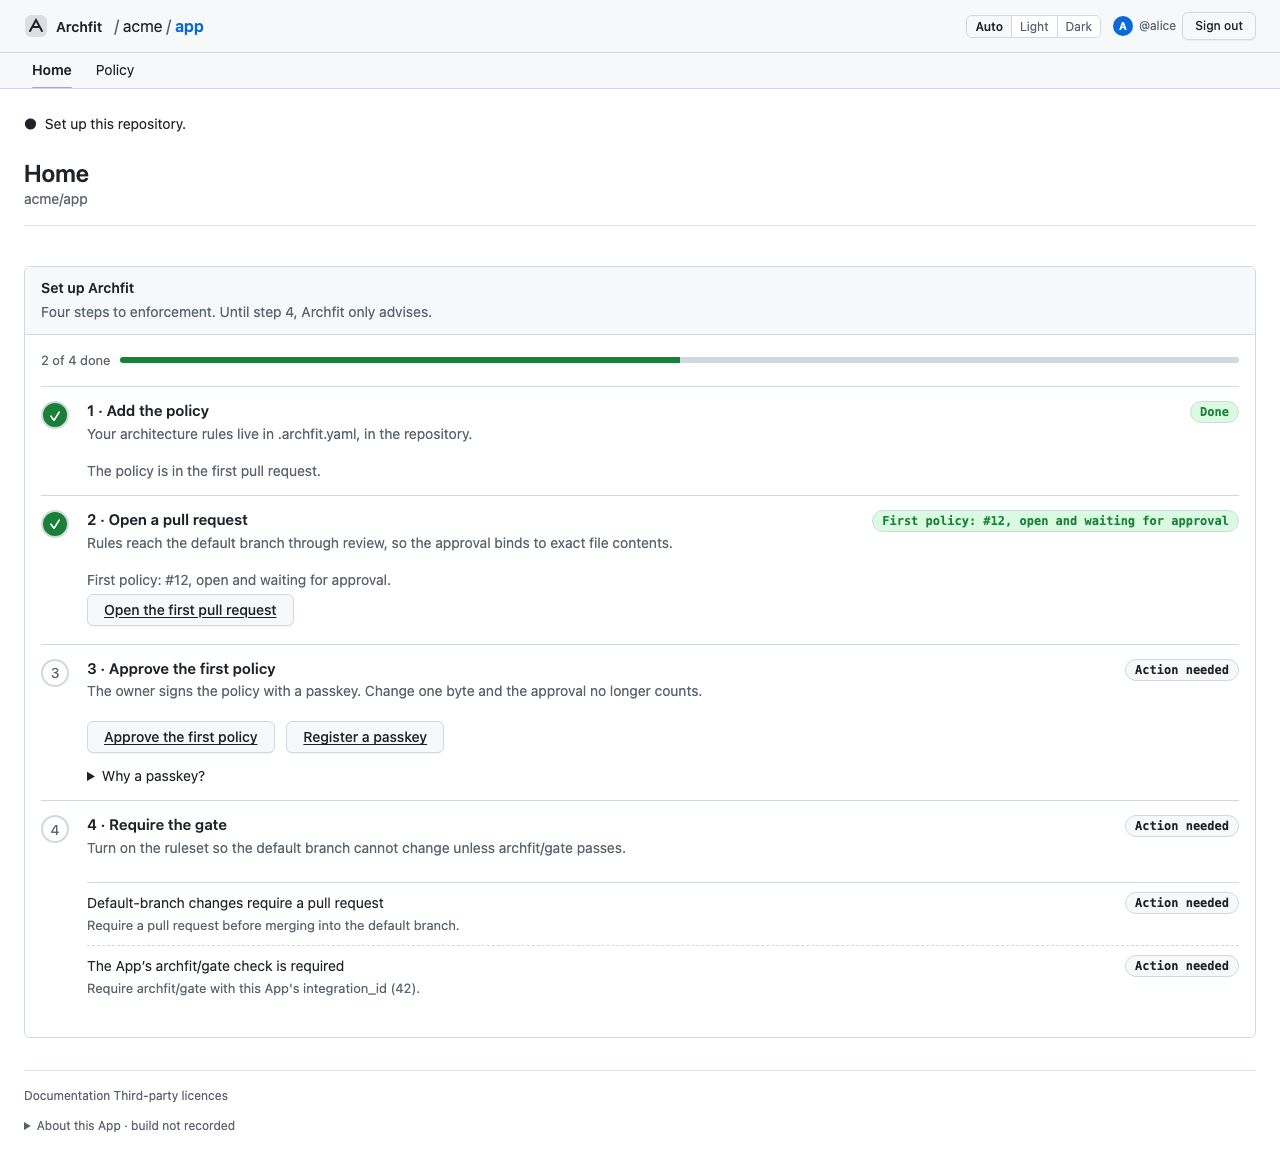
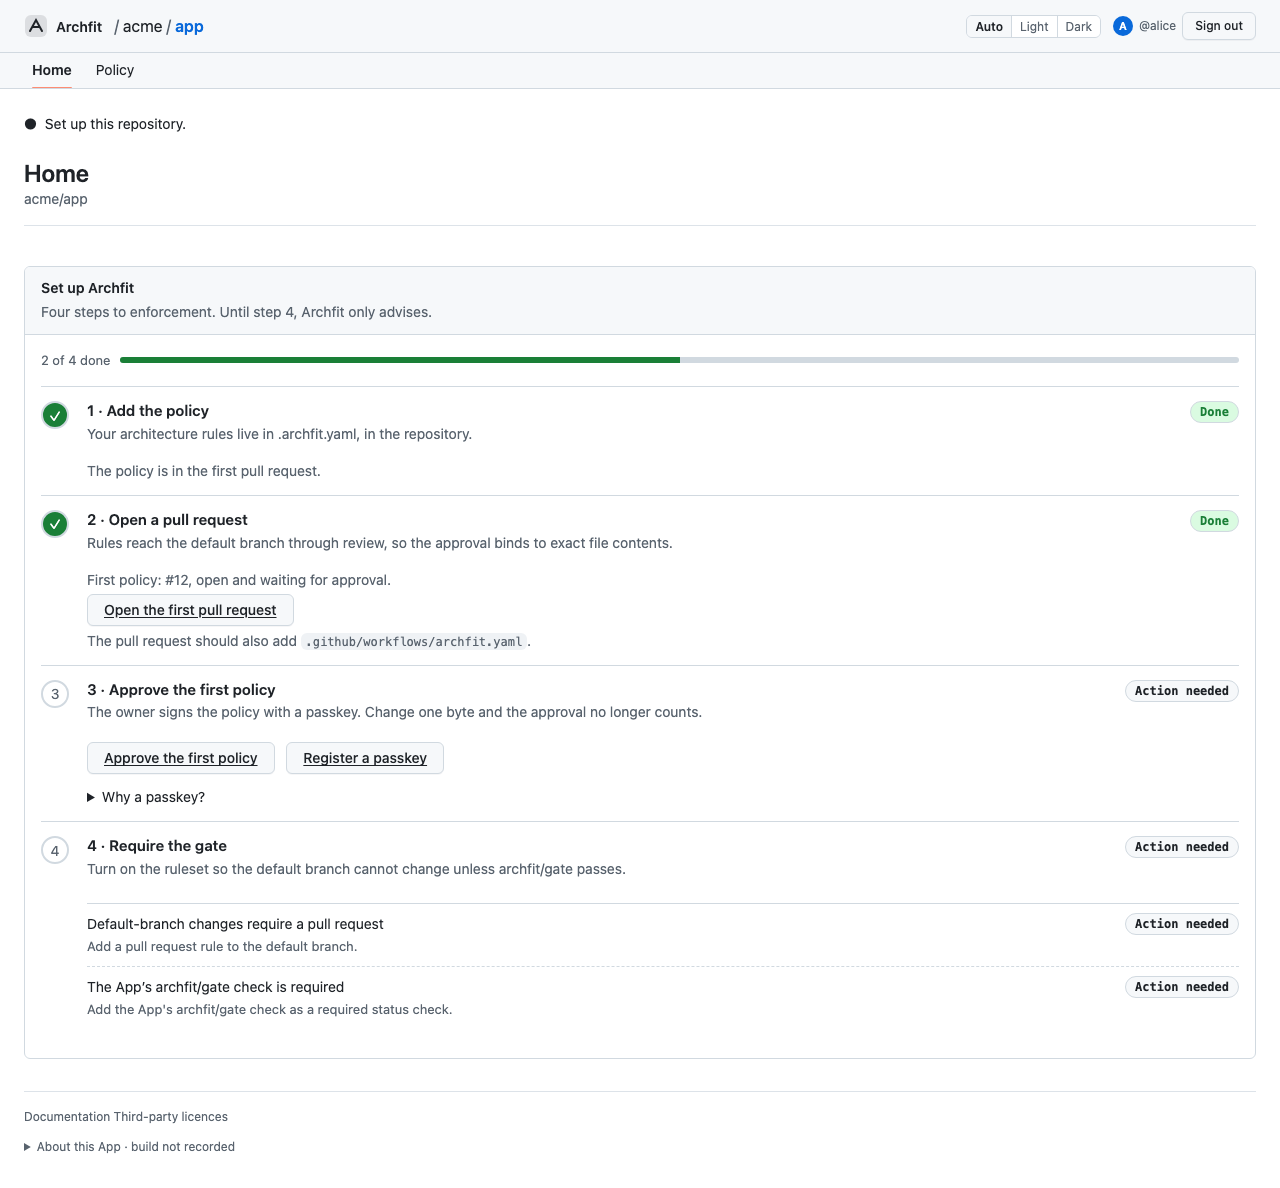
fix(web): clarify setup chips and ruleset copy (#146)

diff --git a/web/src/components/Setup.svelte b/web/src/components/Setup.svelte
@@ -26,7 +26,7 @@
     <div class="progress" aria-label="{completed} of 4 steps done"><span>{completed} of 4 done</span><span class="bar" aria-hidden="true"><span style="width: {completed * 25}%"></span></span></div>
     <ol class="steps">
       {#each steps as step, i (step.title)}
-        {@const status = i === 0 ? done[i] ? 'Done' : 'Action needed' : i === 1 ? setup.first_pull ? `First policy: #${setup.first_pull}, open and waiting for approval` : done[i] ? 'Done' : 'Action needed' : i === 2 ? state.approval : state.gate}
+        {@const status = i === 0 ? done[i] ? 'Done' : 'Action needed' : i === 1 ? done[i] ? 'Done' : 'Action needed' : i === 2 ? state.approval : state.gate}
         <li class:done={done[i]} class:now={!done[i] && (i === 0 || done[i - 1])}>
           <span class="number" aria-hidden="true">{done[i] ? '✓' : i + 1}</span>
           <div class="step-copy"><h3>{i + 1} · {step.title}</h3><p>{step.text}</p></div>
@@ -39,6 +39,7 @@
               {#if !setup.policy && !setup.first_pull}<p>Commit the policy and workflow, then open a pull request.</p>{/if}
             {:else if i === 1}
               {#if setup.first_pull}<p>First policy: #{setup.first_pull}, open and waiting for approval.</p><a class="btn ghost" href={repoPage(repo.fullName, '/pull/' + setup.first_pull)}>Open the first pull request</a>{:else}<p>Open one pull request with the policy and workflow.</p>{/if}
+              {#if !setup.workflow}<p>The pull request should also add <code>.github/workflows/archfit.yaml</code>.</p>{/if}
             {:else if i === 2}
               {#if setup.state === 'first_approval'}<a class="btn" href={repoPage(repo.fullName, '/owner/first' + (setup.first_pull ? '?pull=' + setup.first_pull : ''))}>Approve the first policy</a>{/if}
               <a class="btn ghost" href={repoPage(repo.fullName, '/passkeys')}>Register a passkey</a>

diff --git a/web/e2e/home.spec.ts b/web/e2e/home.spec.ts
@@ -40,8 +40,14 @@ for (const file of names) {
       await expect(page.getByRole('heading', { name: 'Set up Archfit' })).toBeVisible();
       await expect(page.getByRole('listitem')).toHaveCount(4);
       await expect(page.getByText('The owner signs the policy with a passkey. Change one byte and the approval no longer counts.')).toBeVisible();
+      if (body.setup.first_pull) {
+        await expect(page.getByRole('listitem').nth(1).getByText('Done', { exact: true })).toBeVisible();
+        await expect(page.getByText(`First policy: #${body.setup.first_pull}, open and waiting for approval.`)).toBeVisible();
+      }
       if (body.setup.state === 'first_approval')
         await expect(page.getByRole('link', { name: 'Approve the first policy' })).toHaveAttribute('href', path + '/owner/first?pull=' + body.setup.first_pull);
+      if (!body.setup.workflow)
+        await expect(page.getByText('The pull request should also add .github/workflows/archfit.yaml.')).toBeVisible();
       await expect(page.getByText('ok', { exact: true })).toHaveCount(0);
       await expect(page.getByText('unknown', { exact: true })).toHaveCount(0);
       if (name === 'not-set-up') await docsShot(page, 'home-setup', setupApprovedCopy);

diff --git a/internal/control/ui/home_test.go b/internal/control/ui/home_test.go
@@ -122,8 +122,8 @@ func TestHomeAPIGoldens(t *testing.T) {
 		{"not-set-up", homePolicy, func(_ *testing.T, e *env) {
 			e.setups.out = onboarding.Setup{State: "first_approval", FirstPull: 12, Missing: []string{"Register a passkey and approve the first policy."},
 				Rules: onboarding.RulesetReport{Findings: []onboarding.RulesetFinding{
-					{Code: "pull_requests", State: "warning", Text: "Require a pull request before merging into the default branch."},
-					{Code: "gate_check", State: "warning", Text: "Require archfit/gate with this App's integration_id (42)."},
+					{Code: "pull_requests", State: "warning", Text: "Add a pull request rule to the default branch."},
+					{Code: "gate_check", State: "warning", Text: "Add the App's archfit/gate check as a required status check."},
 				}}}
 			e.gh.fail["BranchHead"] = errors.New("Home must return the existing setup answer without loading the map")
 		}},

diff --git a/internal/control/onboarding/rulesets_test.go b/internal/control/onboarding/rulesets_test.go
@@ -54,6 +54,20 @@ func TestRulesetBranchRequirements(t *testing.T) {
 					t.Errorf("%s = %+v, want %q", code, fs[code], want)
 				}
 			}
+			pullText := "Add a pull request rule to the default branch."
+			if tt.pulls {
+				pullText = "Default-branch changes require a pull request."
+			}
+			if fs["pull_requests"].Text != pullText {
+				t.Errorf("pull_requests text = %q, want %q", fs["pull_requests"].Text, pullText)
+			}
+			gateText := "Add the App's archfit/gate check as a required status check."
+			if tt.wantGate == "ok" {
+				gateText = "The App's archfit/gate check is required."
+			}
+			if fs["gate_check"].Text != gateText {
+				t.Errorf("gate_check text = %q, want %q", fs["gate_check"].Text, gateText)
+			}
 		})
 	}
 }

diff --git a/internal/control/onboarding/rulesets.go b/internal/control/onboarding/rulesets.go
@@ -54,12 +54,12 @@ func (s *setups) rules(ctx context.Context, r api.Repo) RulesetReport {
 	if pulls {
 		add("pull_requests", "ok", "Default-branch changes require a pull request.")
 	} else {
-		add("pull_requests", "warning", "Default-branch changes do not require a pull request.")
+		add("pull_requests", "warning", "Add a pull request rule to the default branch.")
 	}
 	if check {
 		add("gate_check", "ok", "The App's archfit/gate check is required.")
 	} else {
-		add("gate_check", "warning", "Require the App's archfit/gate check.")
+		add("gate_check", "warning", "Add the App's archfit/gate check as a required status check.")
 	}
 	sets, err := s.gh.ListRulesets(ctx, r.RepoRef)
 	if err != nil {
